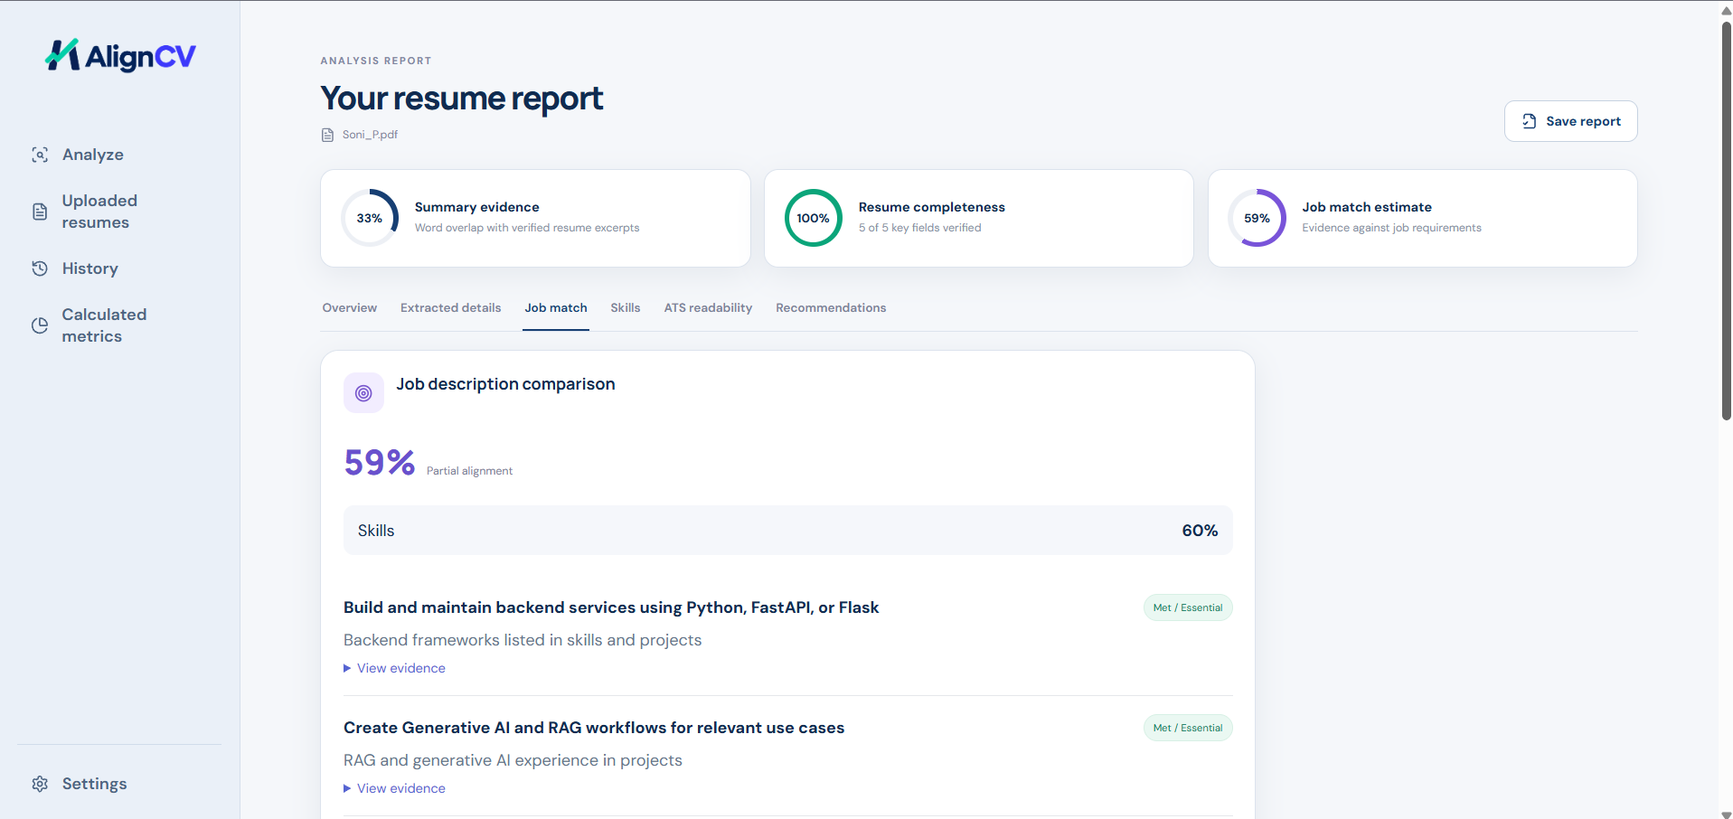
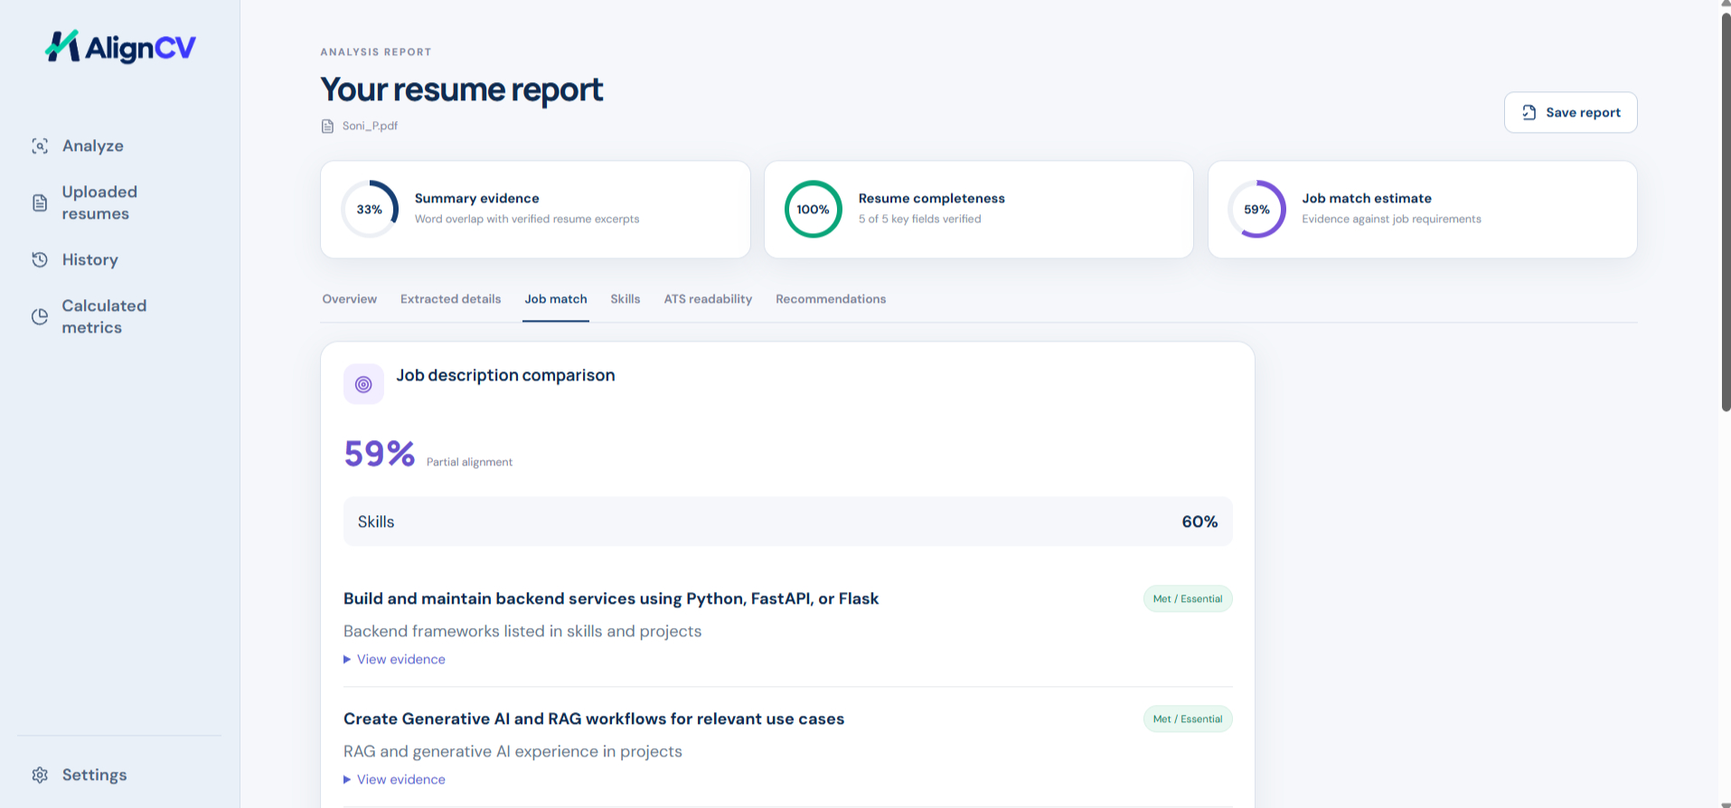
Streamline project README and update report screenshot

diff --git a/README.md b/README.md
@@ -1,198 +1,194 @@
-# AlignCV
+# AlignCV
 
-## Deployment preparation
+AlignCV turns resumes into clear, actionable insights, helping candidates highlight their strengths and align their applications with job requirements.
 
-Deploy with the root `render.yaml` using Render **New > Blueprint** after pushing this folder to your Git provider. The API and static frontend deploy separately; no database is needed.
+## Features
 
-- Set `GROQ_API_KEY` on the API service.
-- Set `FRONTEND_ORIGIN` to the frontend's exact HTTPS origin, without a trailing slash. Multiple origins can be comma-separated.
-- Set `VITE_API_URL` to the API's HTTPS origin, without `/api`. Redeploy the frontend after changing it. Production builds validate this setting; HTTP localhost is allowed for local testing.
-- Optional artwork requires `CLOUDFLARE_ACCOUNT_ID` and `CLOUDFLARE_API_TOKEN` on the API service. Add these in the Render dashboard only if using artwork.
-- Verify `/api/health`, sample resume loading, and one real analysis on the deployed site. Provider calls in the automated tests are mocked; passing tests does not verify deployed credentials or quota.
+- PDF/TXT upload with a 5 MB limit and a built-in sample resume.
+- Brief, detailed, or bullet summaries with adjustable analysis depth and focus.
+- Name, email, skills, education, and experience extraction with supporting quotations.
+- Completeness checks, summary evidence overlap, and improvement recommendations.
+- Job-description comparison with essential/preferred requirements and evidence.
+- Skills categories, counts, optional AI artwork, and ATS readability checks.
+- Browser-based document preview/download, report history, and print-to-PDF.
 
-Keep `frontend/package-lock.json`, backend tests, sample documents, and `.env.example` files in the repository. Local `.env` files, `.venv`, `node_modules`, `dist`, and caches are ignored and must not be uploaded. Render installs dependencies and builds `dist` itself. The optional `requirements-rag.txt` is deliberately excluded from the Render build to avoid loading PyTorch/MiniLM on the lightweight API service.
+## Technology stack
 
-Local verification (PowerShell, from the project root):
+| Layer | Technologies | Purpose |
+|---|---|---|
+| Frontend | React 18, Vite 6, JavaScript/JSX | Interface, state, API requests, and production build |
+| Styling | Custom CSS, Lucide React | Responsive layouts and icons |
+| Backend | Python, FastAPI, Uvicorn | Upload handling and analysis API |
+| Documents | PyMuPDF, Python UTF-8 decoding | PDF and TXT text extraction |
+| Validation | Pydantic | Structured AI-response validation |
+| Retrieval | Python keyword overlap; optional Sentence Transformers and NumPy | Relevant resume-passage selection |
+| Integrations | Groq SDK, HTTPX, python-dotenv | AI calls, HTTP requests, and environment loading |
+| Storage | localStorage, IndexedDB | Browser report history and original documents |
+| Testing / hosting | Python unittest, Render Blueprint | Backend checks and deployment configuration |
 
-```powershell
-Push-Location backend
-.\.venv\Scripts\python.exe -m unittest discover -s tests -v
-.\.venv\Scripts\python.exe -m pip check
-Pop-Location
-Push-Location frontend
-npm.cmd run build
-npm.cmd audit
-Pop-Location
+Exact dependency declarations are in `frontend/package.json`, `backend/requirements.txt`, and `backend/requirements-rag.txt`.
+
+## AI models and analysis workflow
+
+| Service / model | Usage |
+|---|---|
+| Groq API / `openai/gpt-oss-20b` | Default model for structured resume analysis; configurable through `GROQ_MODEL` |
+| `sentence-transformers/all-MiniLM-L6-v2` | Optional local embedding model for semantic retrieval |
+| Cloudflare Workers AI / `@cf/black-forest-labs/flux-1-schnell` | Optional decorative skills artwork |
+
+```text
+React upload -> FastAPI -> PDF/TXT text extraction -> text validation
+    -> chunking and retrieval -> Groq generation -> Pydantic validation
+    -> source-evidence checks and metrics -> React report -> browser history
 ```
 
-Use Python 3.11 for parity with the Render configuration. The existing local environment may use another Python version; recreate it with Python 3.11 if SDK compatibility warnings appear.
+- **RAG is enabled by default:** passages target 850 characters with 120-character overlap; up to five relevant passages are selected from at most 100 chunks.
+- **Default retrieval:** keyword overlap. Optional MiniLM uses normalized embeddings and cosine similarity, with keyword fallback.
+- **Model input:** the full resume plus retrieved passages, settings, and optional job description. Disabling RAG skips retrieval while retaining the full resume.
+- **Evidence checks:** quotations are checked against normalized source text; populated fields without verifiable evidence are cleared and marked uncertain.
+- **Artwork:** requested separately; only predefined skill-category names are sent to Cloudflare.
 
-AlignCV is a responsive resume document analyzer built for the Developer Assessment, Task 2. It accepts PDF/TXT resumes, extracts text, uses retrieval-augmented generation (RAG) with a Groq-hosted LLM, validates structured results, and shows evidence excerpts and review indicators.
+## Setup and execution
 
-## Features mapped to Task 2
+**Prerequisites:** Python 3.11 (deployment target), Node.js 20+, npm, and a Groq API key. Commands below use PowerShell from the repository root.
 
-| Assessment requirement | AlignCV implementation |
-|---|---|
-| PDF/text upload and extraction | FastAPI upload endpoint; PyMuPDF extracts PDF text; UTF-8 decoder handles TXT. Files are limited to 5 MB. Empty, unreadable, unsupported, and scanned/image-only PDFs receive clear errors. |
-| Sample documents | The supplied software developer PDF is in `backend/samples`; an editable sample JD is available from the job description section. |
-| AI summaries and styles | Groq API generates a brief, detailed, or bullet-style summary grounded in retrieved resume text. Key findings and suggestions are included. |
-| Structured fields | Name, email, skills, education, and experience are returned as validated Pydantic JSON fields with value, evidence, and status. Missing or unverifiable values are null. |
-| Adaptive analysis | Basic/standard/detailed depth and optional focus areas are sent to the analysis prompt. Users can leave focus blank for a complete analysis. |
-| Visual insight | Skills are grouped into categories with exact counts and category bars. An optional Cloudflare Workers AI illustration replaces the pie chart. |
-| Interactive review | Separate upload, loading, and report screens; expandable evidence; missing/uncertain flags; completeness indicator; optional job-description keyword comparison. |
-| Deployment and documentation | Render setup is described below. This README includes stack, environment settings, test flow, and known limitations. |
-
-## Stack
-
-- React + Vite frontend
-- Python + FastAPI backend
-- PyMuPDF for PDF extraction
-- `sentence-transformers/all-MiniLM-L6-v2` embeddings and cosine similarity for semantic retrieval when the optional model package is installed and enabled
-- Lexical-overlap retrieval for RAG by default; used as fallback when MiniLM is disabled/unavailable
-- Groq API for LLM generation (`openai/gpt-oss-20b` by default; change `GROQ_MODEL` if your Groq account exposes a different supported model)
-- Pydantic for output validation
-- CSS category bars and optional Cloudflare Workers AI skills artwork
-
-## Run locally on Windows
-
-Install **Python 3.11 or later** and **Node.js 20 or later**. Run these commands in PowerShell from the project root.
-
-### Backend
-
-First-time setup:
+### 1. Start the backend
 
 ```powershell
 cd backend
-py -3 -m venv .venv
+py -3.11 -m venv .venv
 .\.venv\Scripts\python.exe -m pip install -r requirements.txt
-if (!(Test-Path .env)) { Copy-Item .env.example .env }
 ```
 
-Set `GROQ_API_KEY` in `backend/.env` to your Groq API key. Keep this file private.
-
-Start the backend from the `backend` folder:
+Create `backend/.env` using the variable table below. Set `GROQ_API_KEY` to your own credential, then run:
 
 ```powershell
 .\.venv\Scripts\python.exe -m uvicorn app.main:app --reload --host 127.0.0.1 --port 8000
 ```
 
-### Frontend
+### 2. Start the frontend
 
-Open a second terminal at the project root:
+In a second terminal, from the repository root:
 
 ```powershell
 cd frontend
-npm install
-if (!(Test-Path .env)) { Copy-Item .env.example .env }
+npm ci
+Set-Content .env 'VITE_API_URL=http://localhost:8000'
 npm run dev
 ```
 
-On subsequent runs, only run the backend start command and `npm run dev` in their respective folders. Install dependencies again when their requirements change.
+Open **http://localhost:5173**. API health: **http://localhost:8000/api/health**. Interactive API documentation: **http://localhost:8000/docs**.
 
-Open `http://localhost:5173`. The backend health check is at `http://localhost:8000/api/health`. Keep both terminals running; press **Ctrl+C** in each to stop the app.
+### 3. Optional semantic retrieval
 
-RAG uses lexical retrieval by default. For optional MiniLM semantic retrieval, run `.\.venv\Scripts\python.exe -m pip install -r requirements-rag.txt` from `backend`, set `ENABLE_MINILM=true` in `backend/.env`, and restart the backend. This installs PyTorch and downloads the embedding model on first use.
+From `backend`, install the additional dependencies:
 
-## Render deployment
+```powershell
+.\.venv\Scripts\python.exe -m pip install -r requirements-rag.txt
+```
 
-A root `render.yaml` Blueprint defines both services, the API health check, Python 3.11, Node.js 22, and lightweight lexical retrieval. In Render, choose **New > Blueprint** and select your repository. Enter `GROQ_API_KEY`, `FRONTEND_ORIGIN` (the frontend's full HTTPS origin), and `VITE_API_URL` (the API's full HTTPS base URL without `/api`) when prompted. Use the actual URLs assigned by Render; service names may receive a suffix. If those URLs are not yet known, update them in the dashboard after creation and redeploy both services. Changes to `VITE_API_URL` require a new frontend build. No API keys belong in frontend environment variables.
-
-Skill counts and category bars use extracted data and native CSS. Optional skills artwork uses Cloudflare Workers AI and is decorative; exact counts remain visible.
-
-Deploy the frontend and API as separate Render services so the React static site stays light and the Python API can host the processing dependencies.
-
-### Backend web service
-
-1. Push the `aligncv` project to a private or public GitHub repository. Confirm `.env`, `.venv`, `node_modules`, and build output are excluded.
-2. In Render, create a **Web Service** from the repository and set its root directory to `backend`.
-3. Runtime: **Python**. Build command: `pip install -r requirements.txt`. Start command: `uvicorn app.main:app --host 0.0.0.0 --port $PORT`.
-4. Add environment variables: `GROQ_API_KEY` (secret), `GROQ_MODEL` (`openai/gpt-oss-20b`), `FRONTEND_ORIGIN` (the exact public frontend URL), `MAX_UPLOAD_MB` (`5`), and `ENABLE_MINILM`.
-5. For a free, low-memory service, use the regular `requirements.txt` and set `ENABLE_MINILM=false`; RAG still works with the built-in lexical retrieval. To use MiniLM, switch the backend build configuration to install `requirements-rag.txt` and set `ENABLE_MINILM=true` only if the selected Render instance has enough memory for PyTorch and the embedding model. The model weights are downloaded on first RAG request, not committed to the repository.
-6. Deploy and copy the public API base URL (for example, `https://your-api.onrender.com`). Check `/api/health`.
-
-### Frontend static site
-
-1. In Render, create a **Static Site** from the same repository and set its root directory to `frontend`.
-2. Build command: `npm ci && npm run build`. Publish directory: `dist`.
-3. Add environment variable `VITE_API_URL` with the backend's public API base URL. Vite uses this value during the build.
-4. Deploy the static site. Copy its public URL and update the backend's `FRONTEND_ORIGIN` to that exact URL, then redeploy the backend.
-5. Test upload, samples, both retrieval modes, error states, and the complete report flow from the public frontend URL.
-
-Render's free services can sleep when idle, so the first API request after inactivity may be slow. Render builds from the committed source files.
-
-## API
-
-- `GET /api/health` — health check
-- `GET /api/samples` — lists sample resumes
-- `GET /api/samples/{filename}` — returns a sample PDF/TXT document as base64 with extracted text
-- `POST /api/analyze` — multipart upload and analysis options; returns summary, findings, extracted fields/evidence, scores, chart categories, retrieval mode, and optional job match
-
-## Scoring and reliability notes
-
-- **Summary evidence overlap** measures meaningful summary terms found across the combined source-verified field excerpts, excluding common filler words and normalizing simple plurals. The expandable calculation shows sentence-level overlap and up to three matching excerpts. Unlike the previous whole-sentence threshold, it gives partial credit for evidence spread across fields. Zero means no matching terms, not that the whole resume is incorrect. Paraphrases may receive a lower score, and matching words cannot verify meaning or negation. This is a review aid, not factual accuracy or a hiring score. Empty, unmeasurable summaries have no score.
-- **Completeness** measures whether five predefined resume fields were extracted. It does not judge resume quality.
-- **Job match estimate** assesses JD requirements against full resume evidence across requested skills, experience, projects, education, certifications and responsibilities. Essential requirements weigh 3 and preferred requirements weigh 1; met earns full credit, partial 40%, missing zero. Missing essential requirements cap the overall score at 59%; partial essentials cap it at 79%. Exact JD and resume quotes are checked before scoring. Requirement extraction and semantic assessment use AI and can be incorrect; the score is not an employer ATS score. Existing saved reports must be reanalyzed to receive the new comparison.
-- Field evidence quotes are verified against the extracted source text. If a non-null field has no exact verifiable quote, AlignCV drops its value to null and marks it uncertain.
-- LLM output is never guaranteed correct. Review evidence and the original resume before acting on the result.
-
-## Test cases
-
-Use the software developer sample PDF and sample JD to test analysis. Also test a blank TXT file, an unsupported file, a corrupted PDF, a scanned image-only PDF, a file over 5 MB, a resume with no email/education/experience, no job description, and a pasted job description. The backend includes focused logic tests in `backend/tests/test_logic.py`.
+Set `ENABLE_MINILM=true` in `backend/.env` and restart the backend. The embedding model downloads on first use; PyTorch and model weights require additional memory and disk space.
 
 ## Environment variables
 
-| Name | Purpose |
+Create backend variables in `backend/.env` and frontend variables in `frontend/.env`. Keep secret values out of source control and frontend configuration.
+
+| Variable | Location | Requirement / default |
+|---|---|---|
+| `GROQ_API_KEY` | Backend | Required for AI analysis; private credential |
+| `GROQ_MODEL` | Backend | Optional; `openai/gpt-oss-20b` |
+| `FRONTEND_ORIGIN` | Backend | Localhost origins by default; set the exact frontend HTTPS origin in production; comma-separated origins supported |
+| `MAX_UPLOAD_MB` | Backend | Optional; `5`; keep consistent with frontend validation |
+| `ENABLE_MINILM` | Backend | Optional; `false` for lightweight keyword retrieval |
+| `CLOUDFLARE_ACCOUNT_ID` | Backend | Required only for optional artwork |
+| `CLOUDFLARE_API_TOKEN` | Backend | Required only for artwork; Workers AI Read permission |
+| `VITE_API_URL` | Frontend | API origin; localhost for development, HTTPS for production; no `/api` path or trailing slash |
+
+Changes to `VITE_API_URL` require a frontend rebuild. No real credentials are included in this README.
+
+## Testing
+
+### Automated checks
+
+From `backend`:
+
+```powershell
+.\.venv\Scripts\python.exe -m unittest discover -s tests -v
+.\.venv\Scripts\python.exe -m pip check
+```
+
+The suite contains **38 tests** covering extraction, chunking, retrieval, evidence checks, scoring, JSON recovery, API behavior, and artwork caching/validation. Provider calls are mocked; these tests do not verify live credentials or quotas.
+
+From `frontend`, with `VITE_API_URL` configured:
+
+```powershell
+npm run build
+```
+
+### Main-feature checklist
+
+| Test | Expected behavior |
 |---|---|
-| `GROQ_API_KEY` | Private Groq API credential; required for LLM analysis. |
-| `GROQ_MODEL` | Groq model ID. Default: `openai/gpt-oss-20b`. |
-| `FRONTEND_ORIGIN` | Allowed frontend origin for CORS; comma-separated origins are supported. |
-| `MAX_UPLOAD_MB` | Upload size cap; default `5`. |
-| `ENABLE_MINILM` | `true` loads the MiniLM embedding model for semantic RAG; `false` uses lexical retrieval. |
-| `VITE_API_URL` | Frontend build-time base URL for the FastAPI service. |
+| Load sample resume and analyze | Summary, fields, evidence, skills, and recommendations appear |
+| Change summary style and depth | Report reflects the selected options |
+| Add sample or pasted job description | Requirement comparison includes statuses and source quotations |
+| Review extracted details and metrics | Supported, missing, and uncertain fields are distinguishable |
+| Open ATS readability | Observable checks and extracted text are available |
+| Refresh and reopen history | Saved reports remain in the same browser |
+| Preview/download/delete an uploaded resume | IndexedDB document actions work independently of report history |
+| Upload empty, corrupt, unsupported, scanned, or oversized files | Clear validation errors appear |
+| Request artwork with valid Cloudflare configuration | Decorative image loads without changing skill counts |
+| Check `/api/health` and settings | Backend responds and provider status is shown |
 
-## Known limitations
+## Metrics and reliability
 
-- Scanned/image-only PDFs need OCR, which is not included.
-- This prototype analyzes resumes only and keeps uploads in memory; it does not persist uploaded documents or user history.
-- MiniLM and PyTorch require substantially more memory and disk space and have a cold-load cost. The default lexical RAG avoids that deployment weight. On constrained free hosting, use `ENABLE_MINILM=false`.
-- Groq account model availability and free-tier rate limits can change. A rate-limit or provider error is returned as a clear retry message.
-- Keyword matching and summary evidence overlap are transparent heuristics, not formal ATS/ground-truth metrics.
+| Metric | Interpretation |
+|---|---|
+| Completeness | Each of five nonempty, source-verified fields contributes 20%; this measures field coverage |
+| Summary evidence | Meaningful-word overlap with verified excerpts; paraphrases may score lower |
+| Job match estimate | Essential requirements weigh 3, preferred requirements 1; met earns full credit, partial 40%, missing zero |
+| ATS readability | Checks extracted text, supported contact fields, headings, and replacement characters |
 
-## License and privacy
+Missing essential requirements cap job match at 59%; partial essentials cap it at 79% when no essential is missing. AI assessments and quotation matching can still be incorrect. These review aids are not an employer ATS score or a guarantee of factual accuracy.
 
-This is an assessment prototype. Do not commit API keys or real resumes. Uploaded content is processed in memory and is not written to disk by the API.
+## Deployment
 
-## Optional AI skills artwork
+Use the root `render.yaml` to create a Render Blueprint from the repository. It defines separate API and static frontend services.
 
-Set `CLOUDFLARE_ACCOUNT_ID` and `CLOUDFLARE_API_TOKEN` in `backend/.env`, then restart the backend. The token needs Account > Workers AI > Read permission. Keep it out of frontend environment variables and source control.
+| Setting | Backend | Frontend |
+|---|---|---|
+| Root directory | `backend` | `frontend` |
+| Build | `pip install -r requirements.txt` | `npm ci && npm run build` |
+| Start / publish | `uvicorn app.main:app --host 0.0.0.0 --port $PORT` | `dist` |
+| Runtime configuration | Python 3.11.11; MiniLM disabled | Node.js 22.21.0 |
 
-Click **Create skills visual** in the report. The backend uses `@cf/black-forest-labs/flux-1-schnell` with four diffusion steps. Only predefined skill-category names are sent, never resume text or personal details. Images are decorative; counts and category bars remain authoritative.
+1. Set `GROQ_API_KEY`, `FRONTEND_ORIGIN`, and `VITE_API_URL` using the actual assigned service URLs.
+2. Add Cloudflare backend variables only if artwork is needed.
+3. Redeploy after URL changes; frontend API URL changes require a new build.
+4. Verify health, samples, real analysis, CORS, browser storage, and optional artwork on the deployed site.
 
-Generation runs separately from resume analysis with a 60-second timeout. A bounded in-memory cache reuses artwork for the same category set, and a generation lock avoids duplicate concurrent provider calls. The browser also caches up to eight images during the session. Errors do not affect the report. No database is required. Live generation needs valid Cloudflare credentials and available quota; free usage is not guaranteed. Before opening this prototype to public traffic, protect the image endpoint with authentication and per-user quotas to control provider spending.
-## Browser report history
+No database service is required. Keep `.env`, `.venv`, `node_modules`, and `dist` excluded from Git.
 
-Completed analyses are saved in localStorage in the current browser (up to 20 reports). History lets you reopen and delete saved reports. Uploaded resumes separately stores original PDF/TXT documents in browser IndexedDB when selected, and supports preview, download and deletion. Deleting a document does not delete its analysis history, or vice versa. Reports remain after refresh and backend restarts; original documents persist separately in IndexedDB. Previously analyzed documents must be uploaded again to create a preview. History does not sync across devices, browser profiles, or site addresses. Clearing site data removes it. If browser storage is blocked or full, the app shows a warning and keeps changes in memory for the current page. No database service is required for the assessment demo.
+## Known limitations and privacy
 
-## ATS readability and simpler skills chart
-
-Skills charts show counts (for example, 3 skills), without percentages. Additional skills are entries outside the predefined categories. Expand a category to see its skills.
-
-The ATS readability report checks extracted text, source-supported name/email, standard section headings and replacement characters. It provides the extracted text for manual reading-order review. It does not validate visual layout, tables, columns or compatibility with a specific employer parser, and provides no ATS score. Older saved reports require a new analysis to receive these checks.
-
-## Completeness validation
-
-A rule-based checklist covers name, email, skills, education and work experience. Each nonempty field with verified source evidence contributes 20% to completeness. Missing fields show an explicit no-data message. Unverifiable fields remain null and are marked Needs review, separately from missing data; they earn no completeness credit. A 100% result means all five fields were found, not that the resume or every extracted claim is correct.
+- PDF/TXT only; OCR for scanned PDFs and DOCX support are not implemented.
+- Extracted resume text is limited to 100,000 characters; job descriptions are truncated to 12,000 characters.
+- No user authentication, per-user provider quotas, or server-side history synchronization.
+- Up to 20 reports are stored in localStorage; original documents are stored separately in IndexedDB. Clearing browser site data removes them.
+- The API processes uploads in memory; resume text and supplied job descriptions are sent to Groq for analysis.
+- RAG includes the full resume and adds passages, so it does not reduce prompt token usage in this implementation.
+- Provider availability, quotas, and network errors can interrupt analysis; MiniLM adds model-download and memory costs.
+- Readability checks do not validate visual layout or compatibility with a specific employer parser.
+- Protect provider-backed endpoints with authentication and quotas before exposing them to unrestricted public use.
 
 ## Screenshots
 
 ### Resume upload and job description
 
-Upload a resume and add a target job description before starting the analysis.
-
 ![AlignCV resume upload and target job description](docs/screenshots/aligncv%201.png)
 
 ### Resume analysis and job comparison
 
-Review summary evidence, resume completeness, and job requirements with expandable supporting evidence. The values shown are specific to the illustrated analysis.
-
 ![AlignCV analysis report and job description comparison](docs/screenshots/aligncv%202.png)
+
+*Scores shown are specific to the illustrated analysis.*
